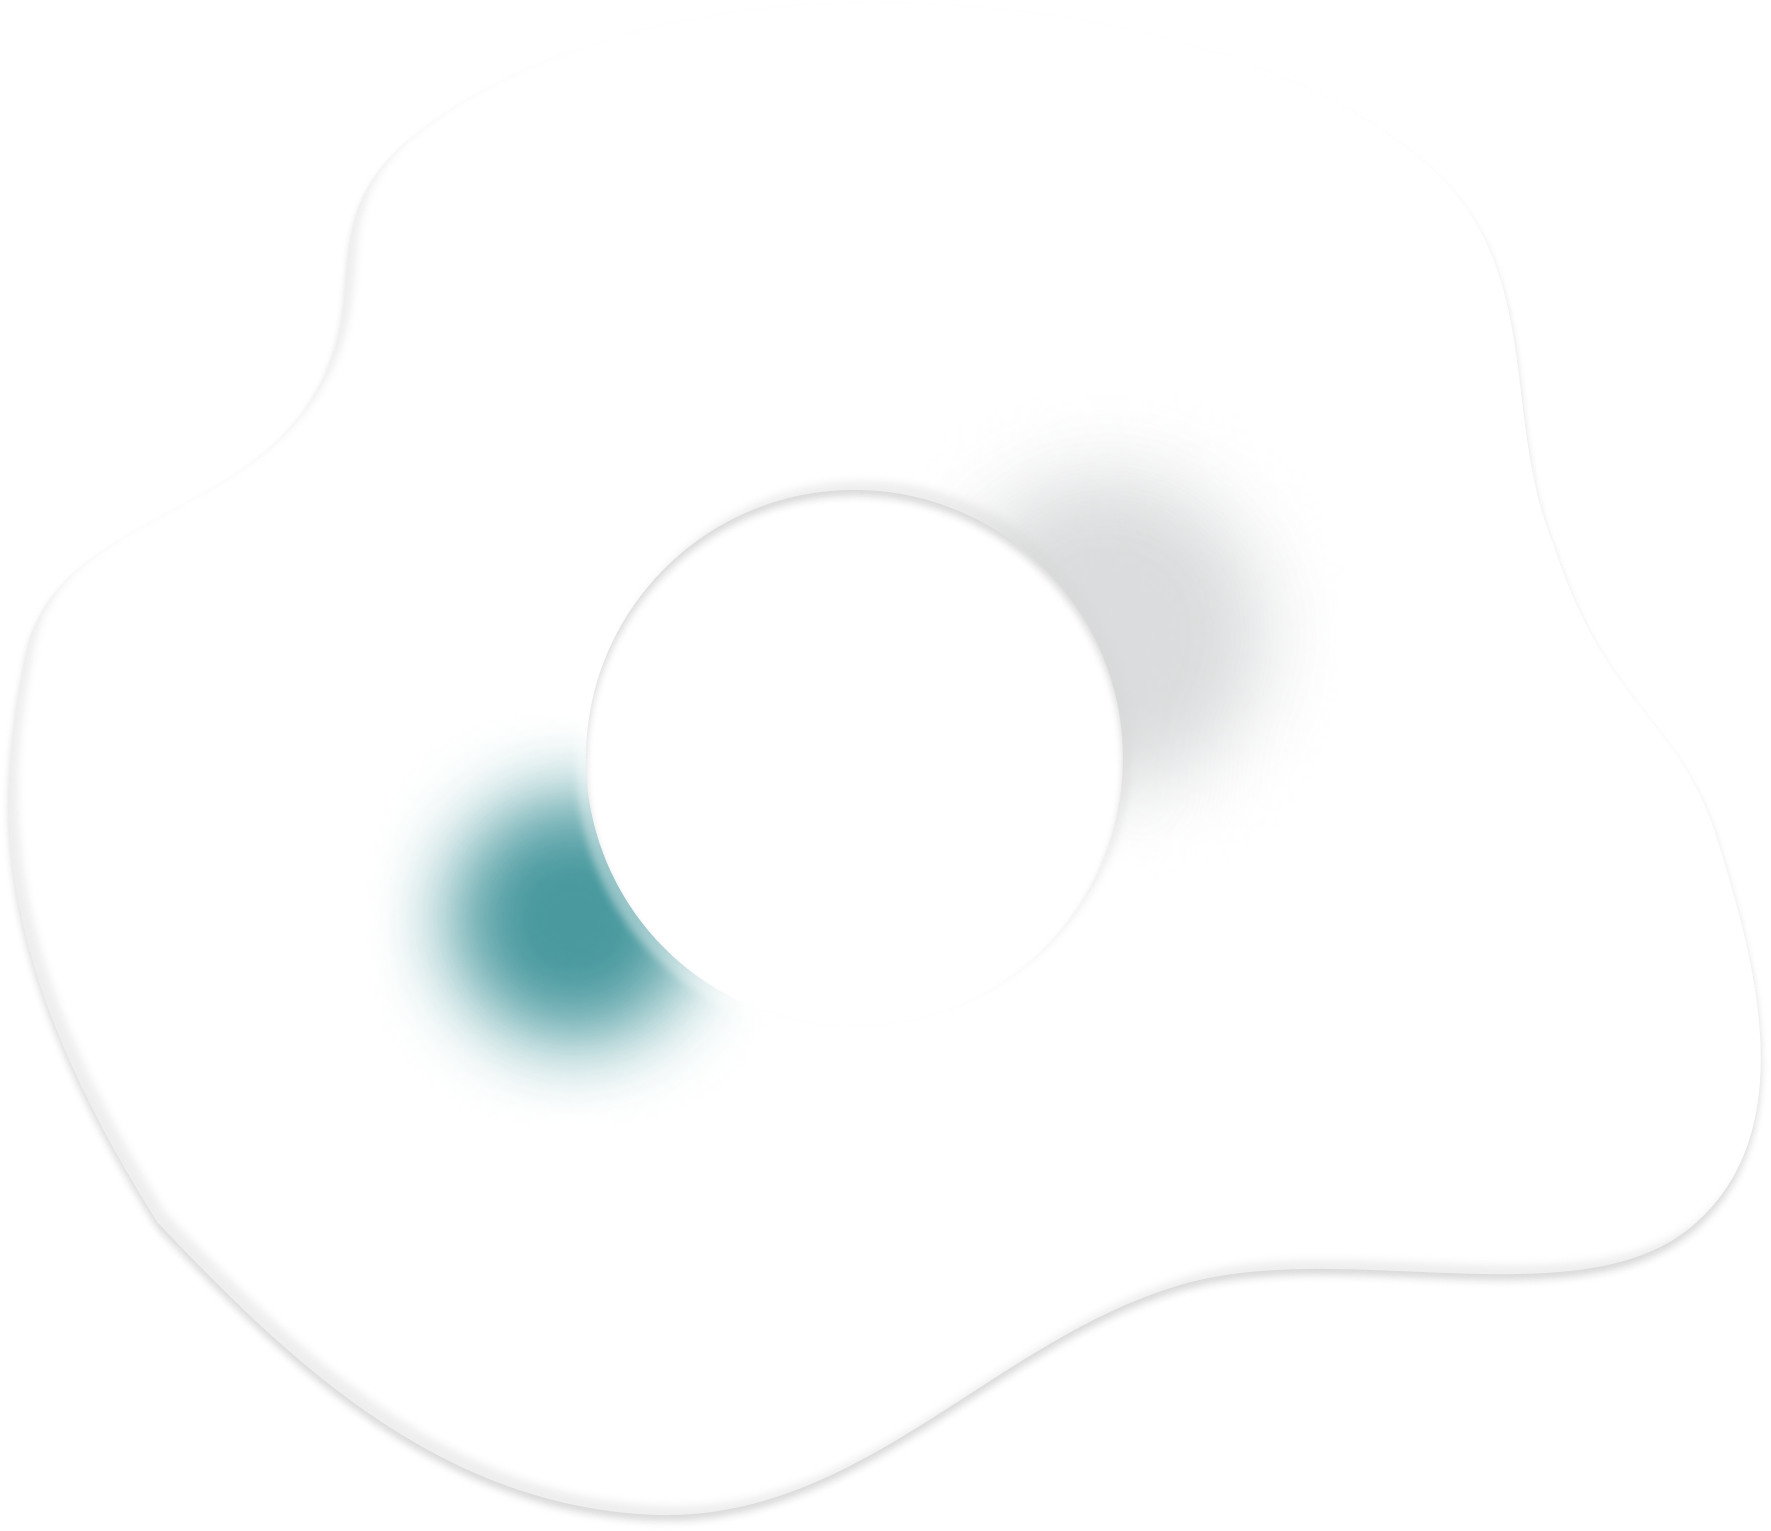
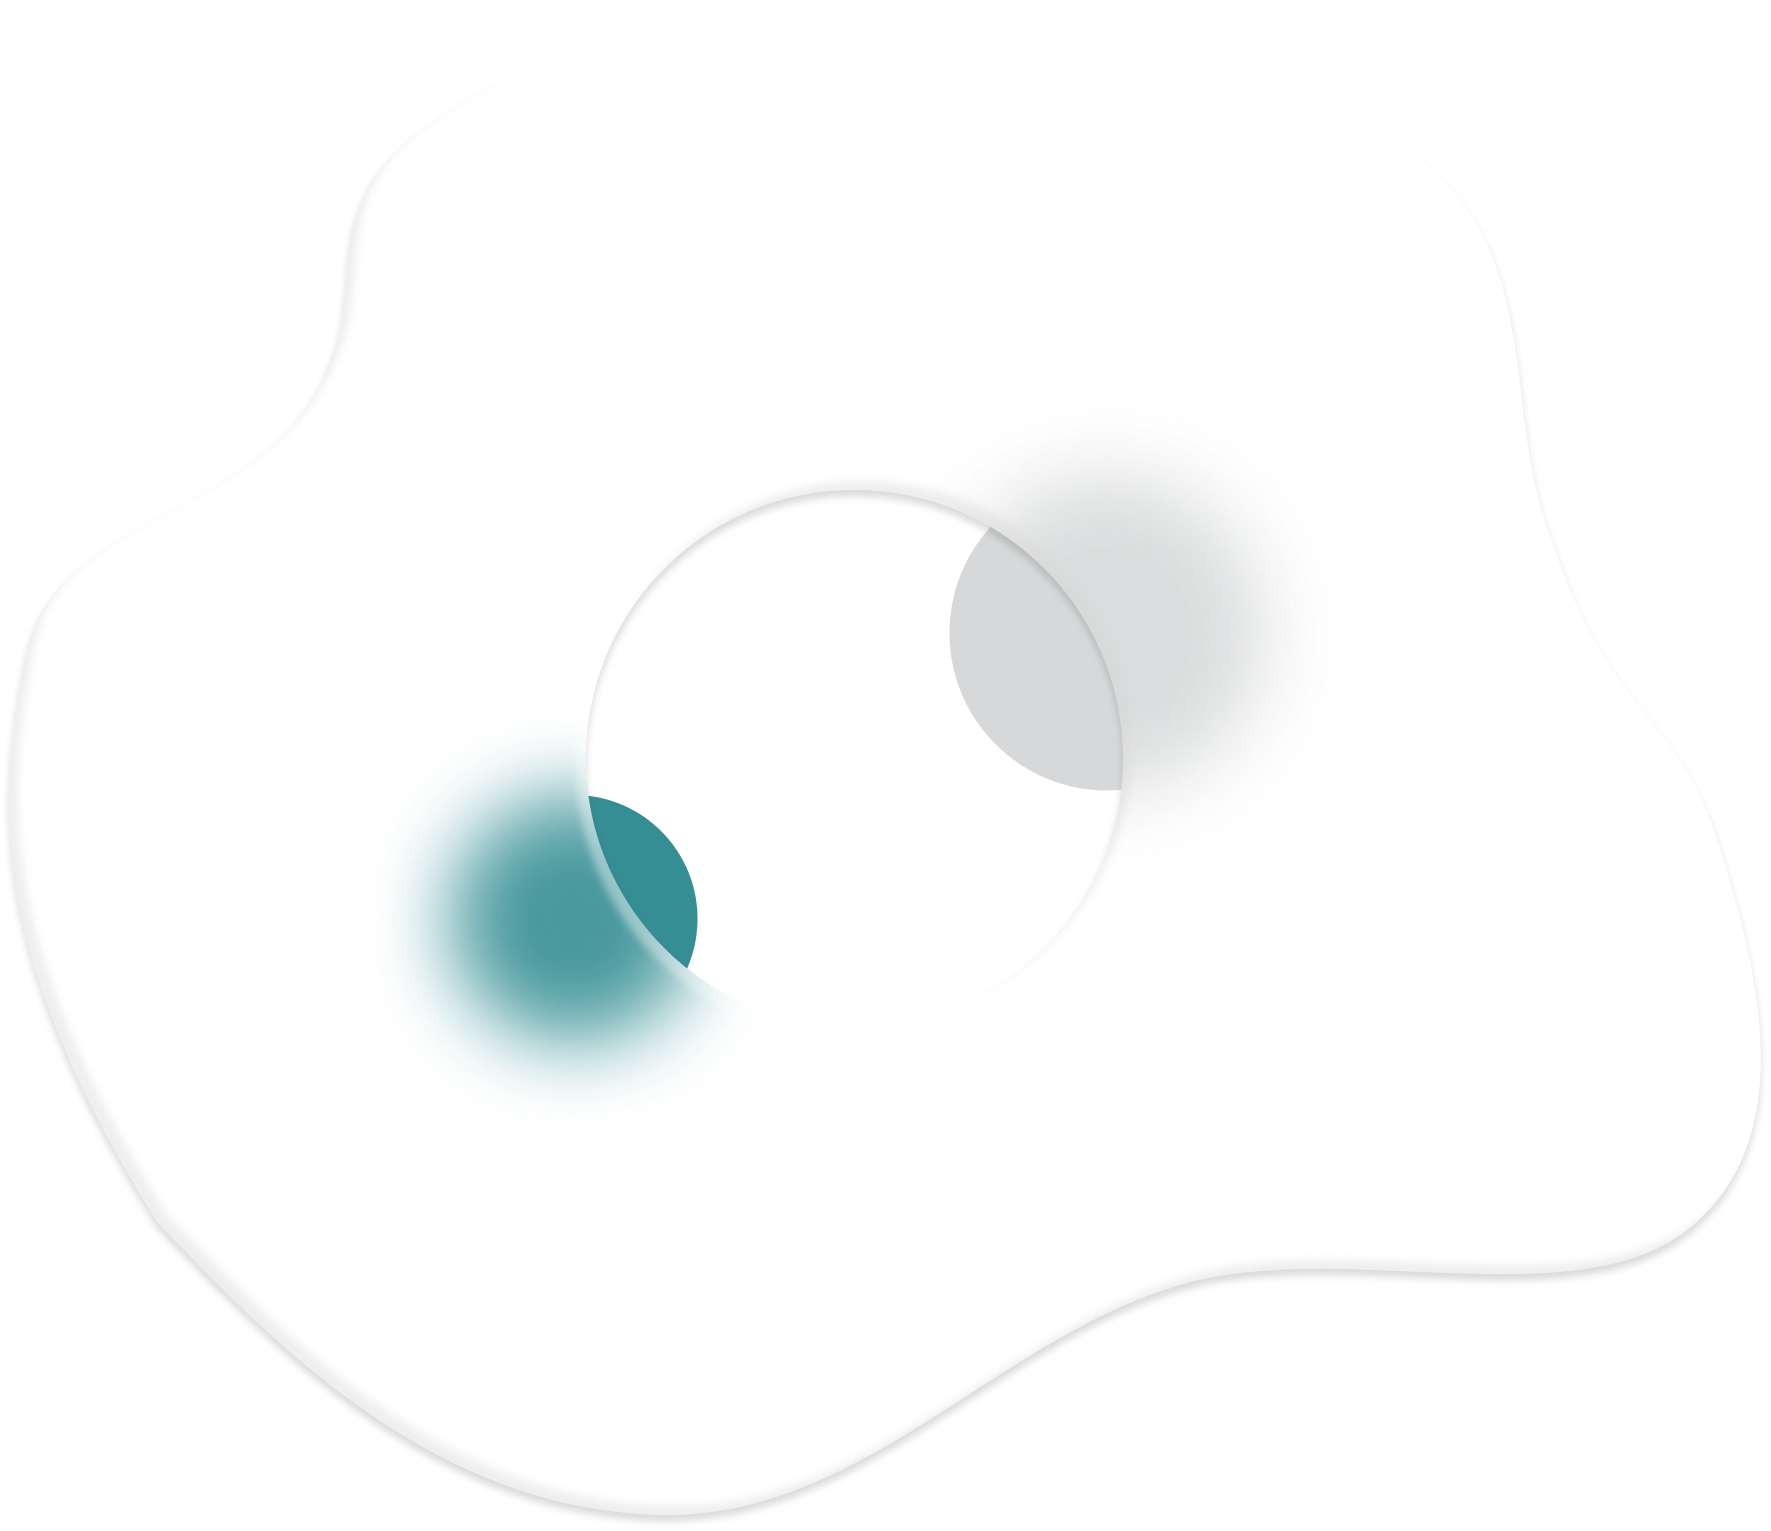
6/30 working on about section

Changed region(s): [[0.528, 0.3377, 0.6522, 0.5219], [0.3106, 0.5219, 0.4037, 0.6447]]

diff --git a/styles/style.scss b/styles/style.scss
@@ -11,7 +11,7 @@ body {
 	padding: 0;
 	margin: 0;
 	font-family: 'Lexend Deca', sans-serif;
-	color: #2C2C2C;
+	color: #666666;
 	background: linear-gradient(80.33deg, rgba(229, 229, 229, 0.7) 13.28%, rgba(245, 245, 245, 0.7) 46.01%, rgba(230, 230, 230, 0.7) 65.96%, rgba(255, 255, 255, 0.175) 95.62%), linear-gradient(252.44deg, #D2D2D2 5.8%, rgba(255, 255, 255, 0.45) 100%);
 }
 
@@ -112,46 +112,68 @@ ul {
 		max-width: 100vw;
 		height: 100vh;
 		overflow: hidden;
-		// background-image: url(../public/image/home-page/hero.png);
-		// background-position: center;
-		// background-repeat: no-repeat;
-		// background-size: 87% auto;
-	}
-	.egg-bg {
-		img {
-			backdrop-filter: blur(60.4667px);
+
+
+		// Background
+		.egg-bg {
+			img {
+				backdrop-filter: blur(60.4667px);
+			}
 		}
-	}
-
-	.hero {
-		width: 87vw;
-		height: auto;
-	}
-
-	.footer {
-		width: 91.2vw;
-		height: auto;
-		margin-left: 2.9vw;
-	}
 	
-	.egg-center {
-		width: 25vw !important;
-		height: 25vw !important;
-		box-shadow: 0px 4px 4px rgba(0, 0, 0, 0.25), inset 3.50667px -3.50667px 3.50667px rgba(182, 182, 182, 0.4), inset -3.50667px 3.50667px 3.50667px rgba(255, 255, 255, 0.4);
-		backdrop-filter: blur(35.0667px);
-		margin-bottom: 15px;
-		border-radius: 50%;
-		transform-style: preserve-3d;
+		.hero, .about, .footer {
+			height: auto;
+		}
 
-		.egg-center-text {
-			transform: translateZ(60px);
+		.hero {
+			width: 87vw;
+		}
+
+		.about {
+			width: 67.7vw;
+			margin-right: 17.4vw;
+			margin-bottom: 3.7vw;
+		}
+	
+		.footer {
+			width: 91.2vw;
+			margin-left: 3.15vw;
+		}
+		// Background
+		
+		.egg-center {
+			width: 25vw !important;
+			height: 25vw !important;
+			box-shadow: 0px 4px 4px rgba(0, 0, 0, 0.25), inset 3.50667px -3.50667px 3.50667px rgba(182, 182, 182, 0.4), inset -3.50667px 3.50667px 3.50667px rgba(255, 255, 255, 0.4);
+			backdrop-filter: blur(35.0667px);
+			margin-bottom: 15px;
+			border-radius: 50%;
+			transform-style: preserve-3d;
+	
+			.egg-center-text {
+				transform: translateZ(60px);
+			}
+	
+			h1 {
+				font-weight: 800;
+				font-size: 40px;
+				line-height: 50px;
+			}
+		}
+	
+		.egg-hover:hover {
+			cursor: pointer;
+		}
+
+		.head-shot {
+			right: 0;
+			bottom: 0;
+			max-width: 446px;
+
 		}
 	}
 
-	.egg-hover:hover {
-		cursor: pointer;
-	}
-
+	// Carousel
 	.carousel-section {
 		max-width: 1280px;
 
@@ -231,6 +253,7 @@ ul {
 			}
 		}
 	}
+	// Carousel
 }
 
 
@@ -428,9 +451,6 @@ section {
 
 // footer starts
 footer {
-	h1 {
-		font-size: 40px;
-	}
 	.icon {
 		background-color: #222222;
 		box-shadow: 0px 4px 4px rgba(0, 0, 0, 0.25);

diff --git a/styles/style.css b/styles/style.css
@@ -8,7 +8,7 @@ body {
   padding: 0;
   margin: 0;
   font-family: "Lexend Deca", sans-serif;
-  color: #2C2C2C;
+  color: #666666;
   background: linear-gradient(80.33deg, rgba(229, 229, 229, 0.7) 13.28%, rgba(245, 245, 245, 0.7) 46.01%, rgba(230, 230, 230, 0.7) 65.96%, rgba(255, 255, 255, 0.175) 95.62%), linear-gradient(252.44deg, #D2D2D2 5.8%, rgba(255, 255, 255, 0.45) 100%);
 }
 
@@ -97,19 +97,25 @@ ul {
   height: 100vh;
   overflow: hidden;
 }
-.home .egg-bg img {
+.home section .egg-bg img {
   backdrop-filter: blur(60.4667px);
 }
-.home .hero {
+.home section .hero, .home section .about, .home section .footer {
+  height: auto;
+}
+.home section .hero {
   width: 87vw;
-  height: auto;
 }
-.home .footer {
+.home section .about {
+  width: 67.7vw;
+  margin-right: 17.4vw;
+  margin-bottom: 3.7vw;
+}
+.home section .footer {
   width: 91.2vw;
-  height: auto;
-  margin-left: 2.9vw;
+  margin-left: 3.15vw;
 }
-.home .egg-center {
+.home section .egg-center {
   width: 25vw !important;
   height: 25vw !important;
   box-shadow: 0px 4px 4px rgba(0, 0, 0, 0.25), inset 3.50667px -3.50667px 3.50667px rgba(182, 182, 182, 0.4), inset -3.50667px 3.50667px 3.50667px rgba(255, 255, 255, 0.4);
@@ -118,11 +124,21 @@ ul {
   border-radius: 50%;
   transform-style: preserve-3d;
 }
-.home .egg-center .egg-center-text {
+.home section .egg-center .egg-center-text {
   transform: translateZ(60px);
 }
-.home .egg-hover:hover {
+.home section .egg-center h1 {
+  font-weight: 800;
+  font-size: 40px;
+  line-height: 50px;
+}
+.home section .egg-hover:hover {
   cursor: pointer;
+}
+.home section .head-shot {
+  right: 0;
+  bottom: 0;
+  max-width: 446px;
 }
 .home .carousel-section {
   max-width: 1280px;
@@ -310,9 +326,6 @@ section .list-section .list-text p {
   display: none;
 }
 
-footer h1 {
-  font-size: 40px;
-}
 footer .icon {
   background-color: #222222;
   box-shadow: 0px 4px 4px rgba(0, 0, 0, 0.25);

diff --git a/pages/index.js b/pages/index.js
@@ -2,6 +2,7 @@ import Image from "next/image";
 import logo from "../public/image/home-page/logo.png";
 import hero from "../public/image/home-page/hero.png";
 import bgChat from "../public/image/home-page/bg-chat.png";
+import bgAbout from "../public/image/home-page/bg-about.png";
 import Tilt from "react-parallax-tilt";
 import Egg from "../components/HomePageEgg";
 import Carousel from "../components/HomePageCarousel";
@@ -12,7 +13,7 @@ export default function Home({ works }) {
 	return (
 		<div className="home">
 			<section className="relative flex justify-center items-center">
-				<Egg bgImage={hero} centerImage={logo} text="hero" />
+				<Egg bgImage={hero} centerImage={logo} className="hero" />
 			</section>
 
 			<section className="carousel-section mx-auto">
@@ -20,7 +21,11 @@ export default function Home({ works }) {
 			</section>
 
 			<section className="relative flex justify-center items-center">
-				<Egg bgImage={bgChat} text="footer"/>
+				<Egg bgImage={bgAbout} className="about" text="About me" />
+			</section>
+
+			<section className="relative flex justify-center items-center">
+				<Egg bgImage={bgChat} className="footer" text="footer" />
 			</section>
 		</div>
 	);

diff --git a/components/HomePageEgg.js b/components/HomePageEgg.js
@@ -1,16 +1,22 @@
 import Image from "next/image";
 import Tilt from "react-parallax-tilt";
 import Footer from "./Footer";
+import headShot from "../public/image/home-page/head-shot.png";
 
-function Egg({ bgImage, centerImage = "", text = "" }) {
+function Egg({ bgImage, centerImage = "", text = "", className }) {
 	return (
 		<>
-			<div className={`absolute z-10 egg-bg ${text}`} >
+			<div className={`absolute z-10 egg-bg ${className}`} >
 				<Image src={bgImage} alt={bgImage}
 					// placeholder="blur"
 					// blurDataURL={bgImage}
 				/>
 			</div>
+			{className === "about" &&
+				<div className="absolute z-10 head-shot">
+					<Image src={headShot} alt="head-shot" />
+				</div>
+			}
 
 			{/* https://www.npmjs.com/package/react-parallax-tilt */}
 			<Tilt className={`z-20 ${text !== "footer" && "egg-hover"} egg-center flex justify-center items-center`}
@@ -18,7 +24,7 @@ function Egg({ bgImage, centerImage = "", text = "" }) {
 				{centerImage && <Image src={centerImage} alt={centerImage}
 					className="egg-center-text"
 				/>}
-				{text === "footer" ? <Footer /> : ""}
+				{text === "footer" ? <Footer /> : <h1>{text}</h1>}
 			</Tilt>
 		</>
 	);

diff --git a/pages/api/works/index.js b/pages/api/works/index.js
@@ -2,10 +2,10 @@ import dbConnect from "../../../util/connection";
 import Category from "../../../models/Category";
 
 export default async function handle(req, res) {
-	dbConnect();
+	await dbConnect();
 	if (req.method === "GET") {
 		try {
-			const categories = await Category.find({});
+			const categories = await Category.find();
 			res.status(200).json(categories);
 		} catch (err) {
 			res.status(500).json(err);

diff --git a/components/Footer.js b/components/Footer.js
@@ -4,7 +4,7 @@ import { HiOutlineMail } from "react-icons/hi";
 function Footer() {
 	return (
 		<footer className="text-center">
-			<h1 className="text-primary">Let’s Chat!</h1>
+			<h1>Let’s Chat!</h1>
 			<div className="flex justify-center">
 				<div>
 					<div className="icon flex justify-center items-center">
